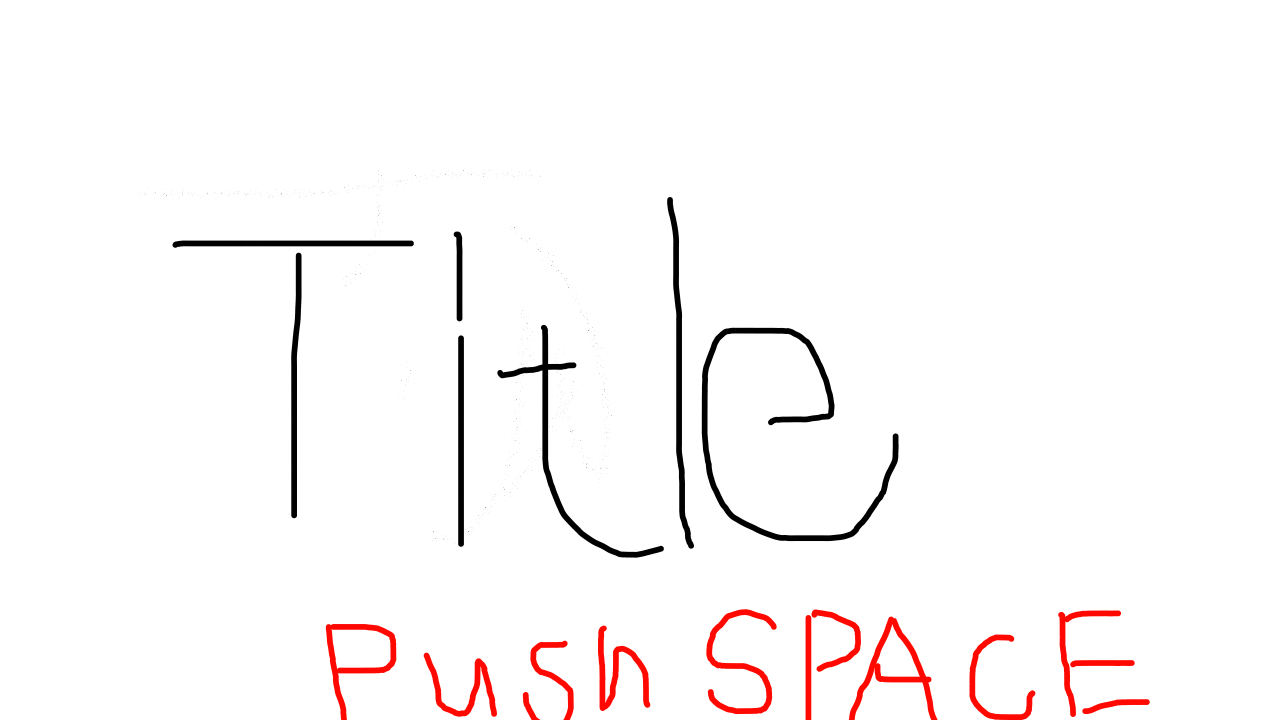
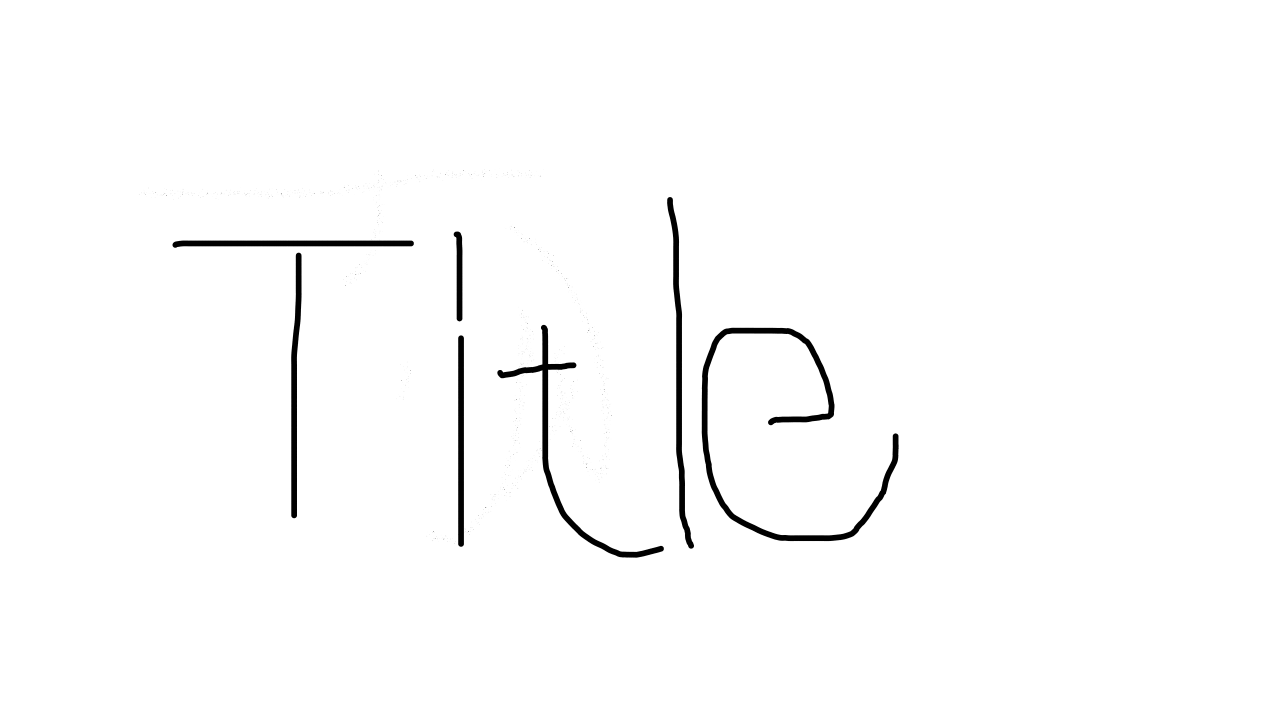
タイトル点滅

diff --git a/DirectXGame/TitleScene.cpp b/DirectXGame/TitleScene.cpp
@@ -11,21 +11,29 @@ void TitleScene::Initialize() {
 	input_ = KamataEngine::Input::GetInstance();
 
 	textureHandle_ = TextureManager::Load("Title.png");
+	textureHandle2_ = TextureManager::Load("TitleSpace.png");
 
 	sprite_ = Sprite::Create(textureHandle_, {100, -700});
+	sprite2_ = Sprite::Create(textureHandle2_, {100, -700});
 }
 
 void TitleScene::Update() {
 
 	Vector2 position = sprite_->GetPosition();
+	Vector2 position2 = sprite2_->GetPosition();
+
+	blinkTimer_++; 
 
 	if (position.y < -100) {
 		position.y += 3.0f; // スプライトの位置を下に移動
+		position2.y += 3.0f;
 	} else {
 		position.y = -100; // 最低位置を設定
+		position2.y = -100; 
 	}
 
 	sprite_->SetPosition(position);
+	sprite2_->SetPosition(position2);
 
 	// SPACEキーで終了フラグ
 	if (input_->TriggerKey(DIK_SPACE)) {
@@ -39,6 +47,10 @@ void TitleScene::Draw() {
 	Sprite::PreDraw(dxCommon->GetCommandList());
 
 	sprite_->Draw();
+
+	if ((blinkTimer_ / 30) % 2 == 0) {
+		sprite2_->Draw();
+	}
 
 	Sprite::PostDraw();
 }

diff --git a/DirectXGame/TitleScene.h b/DirectXGame/TitleScene.h
@@ -16,10 +16,14 @@ public:
 private:
 
 	uint32_t textureHandle_ = 0;
+	uint32_t textureHandle2_ = 0;
 
-	KamataEngine::Sprite* sprite_ = nullptr;
+	Sprite* sprite_ = nullptr;
+	Sprite* sprite2_ = nullptr;
 
 	Input* input_ = nullptr;
+
+	int blinkTimer_ = 0;
 
 	bool isEnd_ = false;
 };
